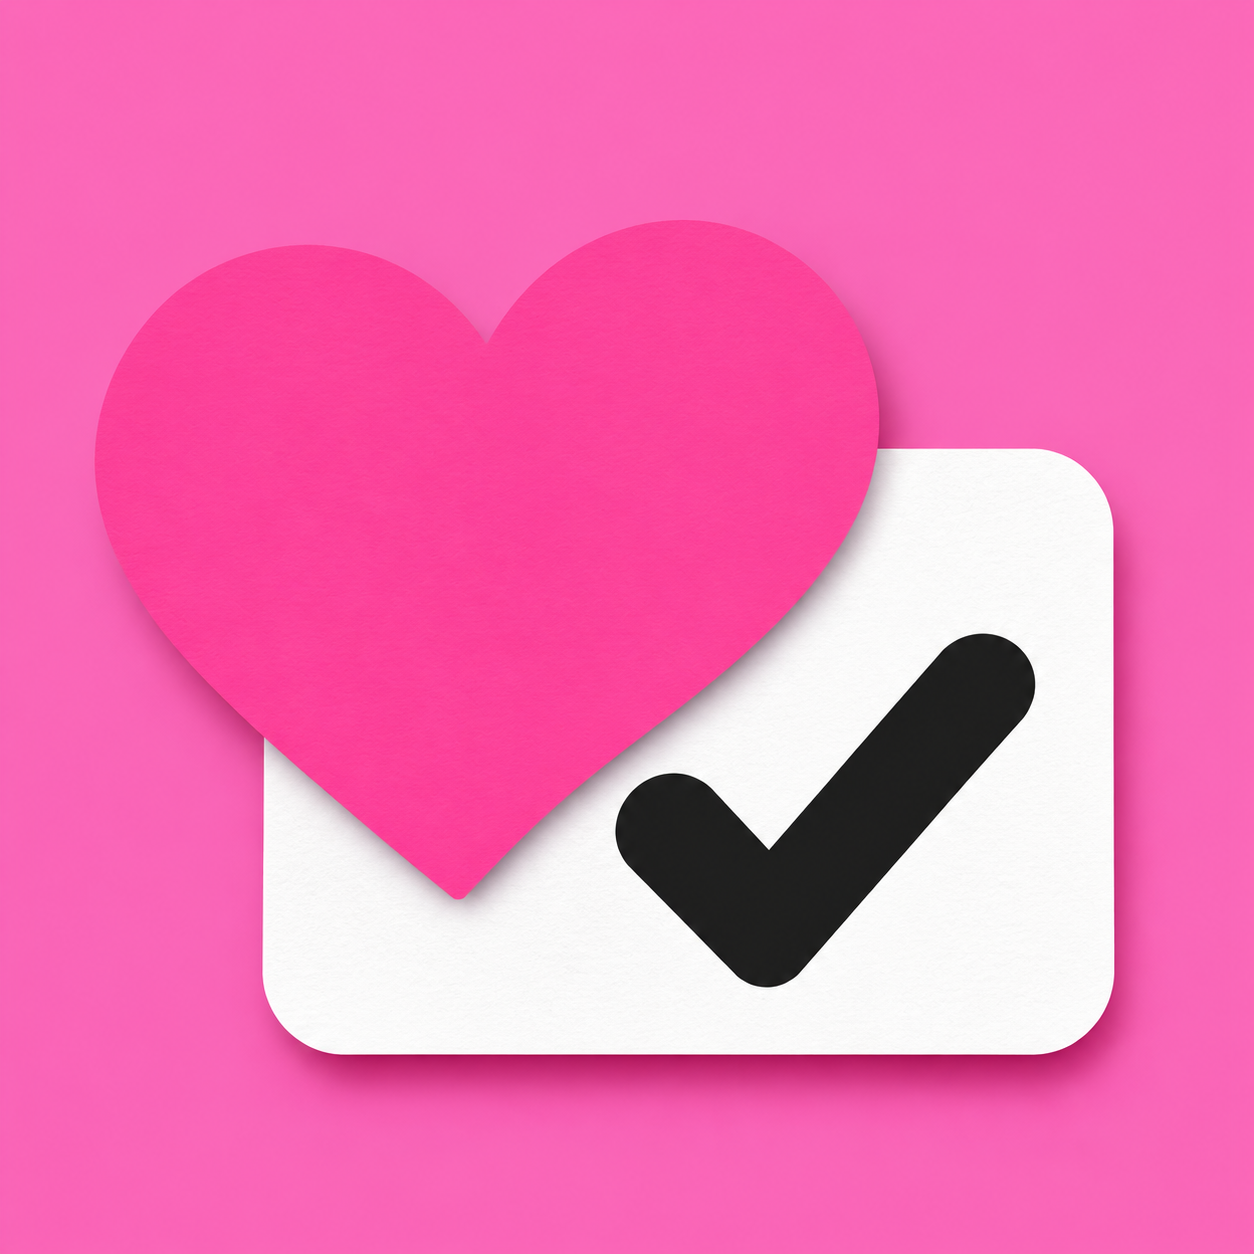
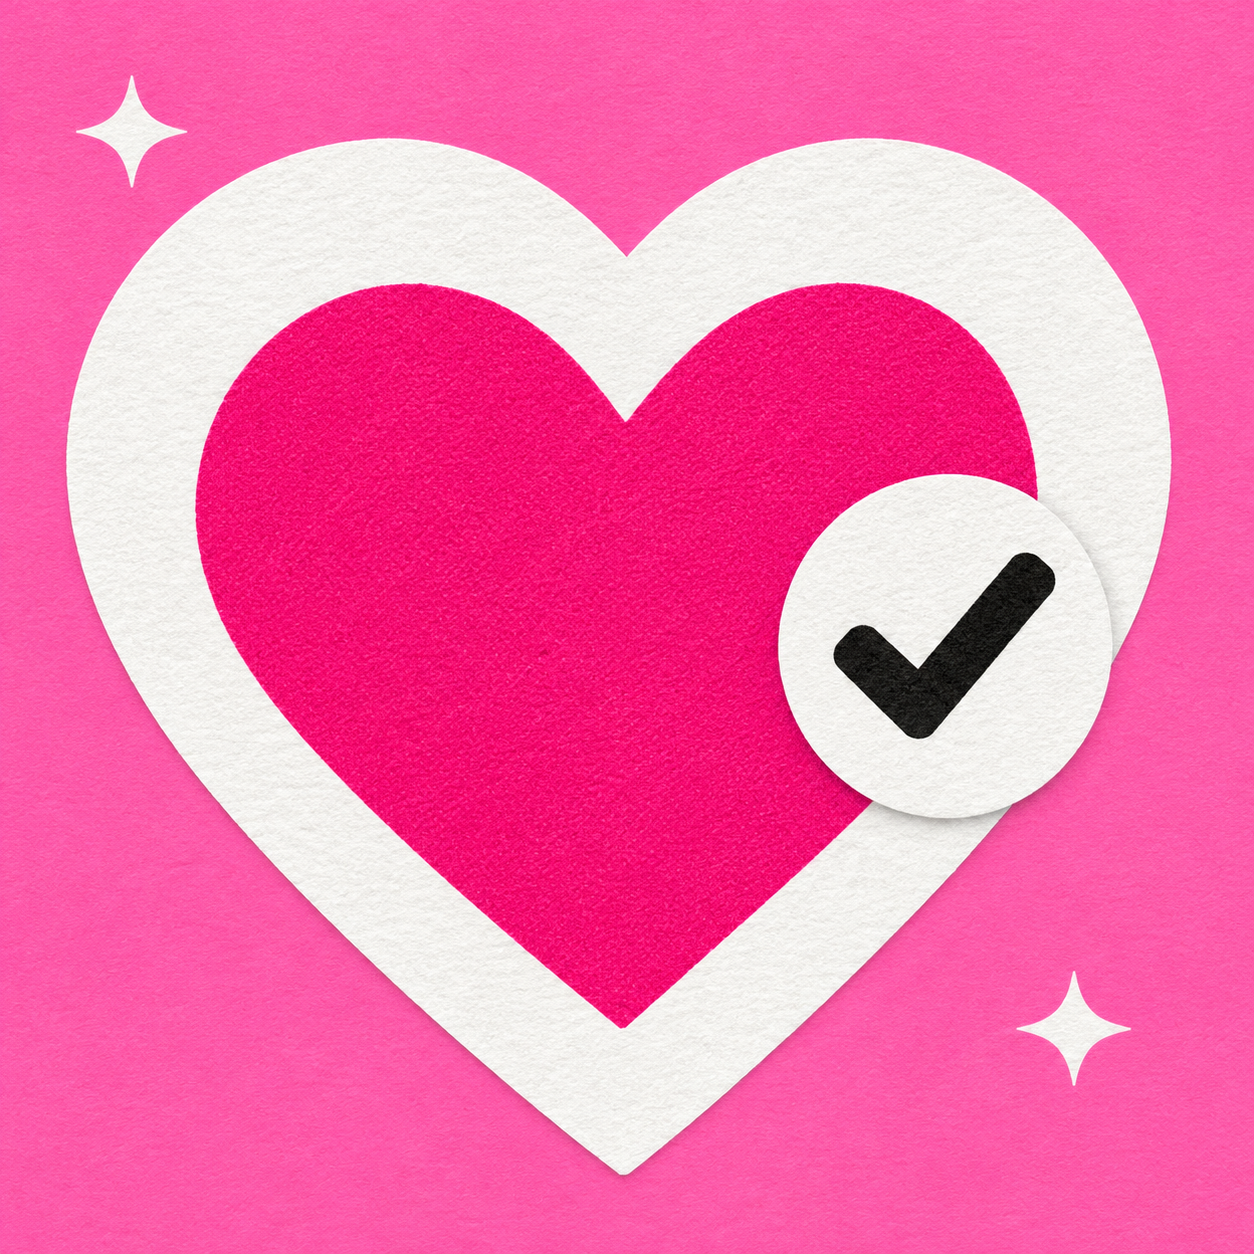
fix(home): use third X mission draft and preserve mobile artwork

diff --git a/apps/web/e2e/signup-raffle-local/main.tsx b/apps/web/e2e/signup-raffle-local/main.tsx
@@ -1,3 +1,4 @@
+import { xMissionHomeBanner } from "../../features/home/domain/x-mission-home-banner";
 import { createRoot } from 'react-dom/client';
 import { parseAppLocale } from '../../i18n/locales';
 import { RaffleContent } from '../../app/s/raffle/content';
@@ -10,5 +11,5 @@ const params = new URLSearchParams(location.search), locale = parseAppLocale(par
 // ?preview=closed: 마감 뒤 추첨 전 · won|lost: 추첨 뒤 결과 화면(표시 전용 예시 값, 서버·추첨과 무관)
 const preview = (['won', 'lost'] as const).find(value => value === params.get('preview'));
 createRoot(document.getElementById('root')!).render(<main style={{margin: '0 auto', maxWidth: 1360, padding: 16}}>
-  {params.has('banner') ? <div className={homeStyles.heroViewport}><ManagedHomeBanner banner={signupRaffleHomeBanner(locale)} locale={locale} /></div> : <div className={styles.event}><RaffleContent locale={locale} closesAt={Date.now() + 18 * 86_400_000} now={Date.now()} closed={!!preview || params.get('preview') === 'closed'} preview={preview} /></div>}
+  {params.has('banner') ? <div className={homeStyles.heroViewport}><ManagedHomeBanner banner={params.has("mission") ? xMissionHomeBanner(locale) : signupRaffleHomeBanner(locale)} locale={locale} /></div> : <div className={styles.event}><RaffleContent locale={locale} closesAt={Date.now() + 18 * 86_400_000} now={Date.now()} closed={!!preview || params.get('preview') === 'closed'} preview={preview} /></div>}
 </main>);

diff --git a/apps/web/components/home-entry-cards/home-hero-banner.module.css b/apps/web/components/home-entry-cards/home-hero-banner.module.css
@@ -123,7 +123,7 @@
 @media (width < 48rem) {
   .banner[data-kind="mission"] { color: var(--color-ink); }
   .banner[data-kind="mission"] :is(.mobileBackdrop, .overlay) { display: none; }
-  .banner[data-kind="mission"] .fullImage { inset: 0 0 0 auto; width: 46%; }
+  .banner[data-kind="mission"] .fullImage { inset: 50% 0 auto auto; width: 46%; aspect-ratio: 1; transform: translateY(-50%); }
   .banner[data-kind="mission"] .copy { inset: 0 auto 0 0; width: 54%; align-items: flex-start; text-align: left; }
   .banner[data-kind="mission"] .eyebrow { color: var(--color-accent); }
   .banner[data-kind="mission"] .description { color: var(--color-muted); }
